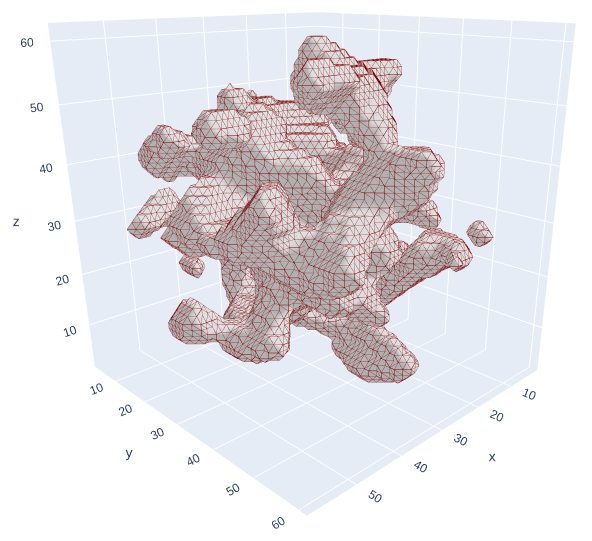
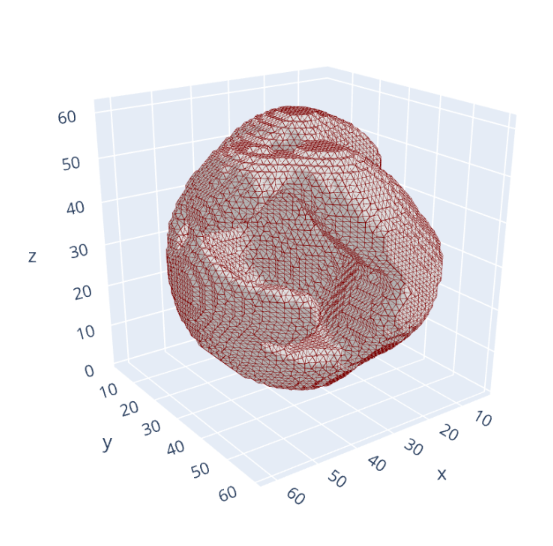
docs updated and screenshots added

diff --git a/qim3d/mesh/_common_mesh_methods.py b/qim3d/mesh/_common_mesh_methods.py
@@ -33,13 +33,19 @@ def from_volume(
         # Generate a 3D blob
         synthetic_blob = qim3d.generate.volume()
 
+        # Visualize the generated blob
+        qim3d.viz.volumetric(synthetic_blob)
+        ```
+        ![pygel3d_visualization_vol](../../assets/screenshots/viz-pygel_mesh_vol.png){width='300', length='200'}
+
+        ```python
         # Convert the 3D numpy array to a Pygel3D mesh object
         mesh = qim3d.mesh.from_volume(synthetic_blob, mesh_precision=0.5)
 
         # Visualize the generated mesh
         qim3d.viz.mesh(mesh)
         ```
-        ![pygel3d_visualization](../../assets/screenshots/viz-pygel_mesh.png)
+        ![pygel3d_visualization_mesh](../../assets/screenshots/viz-pygel_mesh.png){width='300', length='200'}
 
 
     """
